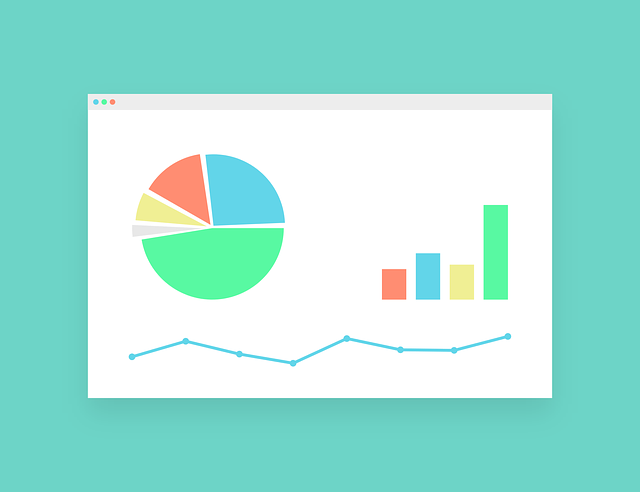
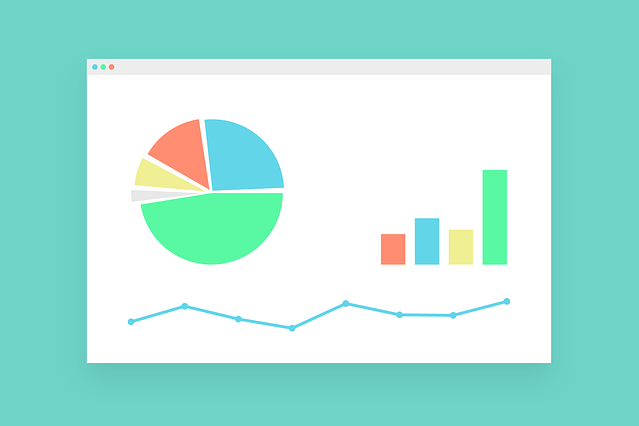
modified analytics pictures

diff --git a/case-studies.html b/case-studies.html
@@ -213,7 +213,7 @@
               <div class="case-studies">
                 <div class="case-studies-img">
                   <a href="/case-studies/retail-price-and-promotions.html">
-                    <img src="img/case-studies/discount.png" width="100%" height="300" style="min-height: 165px;">
+                    <img src="img/case-studies/sale.png" width="100%" height="300" style="max-height: 165px;">
                     <div class="overlay">
                       <div class="overlay-icon"><i class="fa fa-link"></i></div>
                     </div>
@@ -245,7 +245,7 @@
               <div class="case-studies">
                 <div class="case-studies-img">
                   <a href="/case-studies/retail-promotion-analytics.html">
-                    <img src="img/case-studies/special-offer.png" width="100%" height="300" style="max-height: 165px;">
+                    <img src="img/case-studies/analytics.png" width="100%" height="300" style="max-height: 165px;">
                     <div class="overlay">
                       <div class="overlay-icon"><i class="fa fa-link"></i></div>
                     </div>
